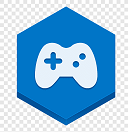
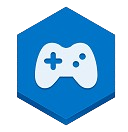
Added GameHub Project

diff --git a/styles.css b/styles.css
@@ -694,7 +694,106 @@ body {
 
 .stack__card:nth-child(4) {
   background-color: #333;
+  justify-content: space-around;
 }
+
+.stack__card:nth-child(4) .card{
+  position: relative;
+  cursor: pointer;
+}
+
+.stack__card:nth-child(4) .card .face{
+  width: 400px;
+  height: 350px;
+  transition: 0.5s;
+}
+
+.stack__card:nth-child(4) .card .face.face1{
+  position: relative;
+  background: #333;
+  display: flex;
+  justify-content: center;
+  align-items: center;
+  z-index: 1;
+  transform: translateY(50px);
+}
+
+.stack__card:nth-child(4) .card:hover .face.face1{
+  background: #2547b8;
+  transform: translateY(0);
+}
+
+.stack__card:nth-child(4) .card .face.face1 .content{
+  opacity: 0.2;
+  transition: 0.5s;
+}
+
+.stack__card:nth-child(4) .card:hover .face.face1 .content{
+  opacity: 1;
+}
+
+.stack__card:nth-child(4) .card .face.face1 .content img{
+  width: 200px;
+}
+
+.stack__card:nth-child(4) .card .face.face1 .content h3{
+  margin: 10px 0 0;
+  padding: 0;
+  color: #fff;
+  text-align: center;
+  font-size: 2em;
+  font-family: 'Poppins', sans-serif;
+  font-weight: bold;
+}
+
+.stack__card:nth-child(4) .card .face.face2{
+  position: relative;
+  background: #fff;
+  display: flex;
+  justify-content: center;
+  align-items: center;
+  padding: 20px;
+  box-sizing: border-box;
+  box-shadow: 0 20px 50px rgba(0, 0, 0, 0.8);
+  transform: translateY(-300px);
+}
+
+.stack__card:nth-child(4) .card:hover .face.face2{
+  transform: translateY(0);
+}
+
+.stack__card:nth-child(4) .card .face.face2 .content p{
+  margin: 0;
+  padding: 0;
+  font-family: 'Poppins', sans-serif;
+  font-size: 1.2em;
+}
+
+.stack__card:nth-child(4) .card .face.face2 .content .animate-gh{
+  /* margin: 15px 0 0; */
+  margin-left: 65%;
+  display:  inline-block;
+  text-decoration: none;
+  font-weight: 900;
+  font-size: 1.2em;
+  color: #333;
+  padding: 5px;
+  border: 1px solid #333;
+  font-family: 'Poppins', sans-serif;
+  transition: all 0.6s;
+}
+
+.stack__card:nth-child(4) .card .face.face2 .content .animate-gh:hover{
+  background: #333;
+  color: #fff;
+  transition: all 0.3s;
+}
+
+
+
+
+
+
 .stack__card:nth-child(5) {
   background-color: #333;
 }

diff --git a/index.html b/index.html
@@ -197,7 +197,7 @@
       <div class="card">
         <div class="face face1">
             <div class="content">
-                <img src="https://github.com/MohitKambli/MohitKambli.github.io/blob/master/Images/GameHub_128.png?raw=true">
+                <img src="https://github.com/MohitKambli/MohitKambli.github.io/blob/master/Images/GameHub_128.jpg?raw=true">
                 <h3>Game Hub</h3>
             </div>
         </div>
